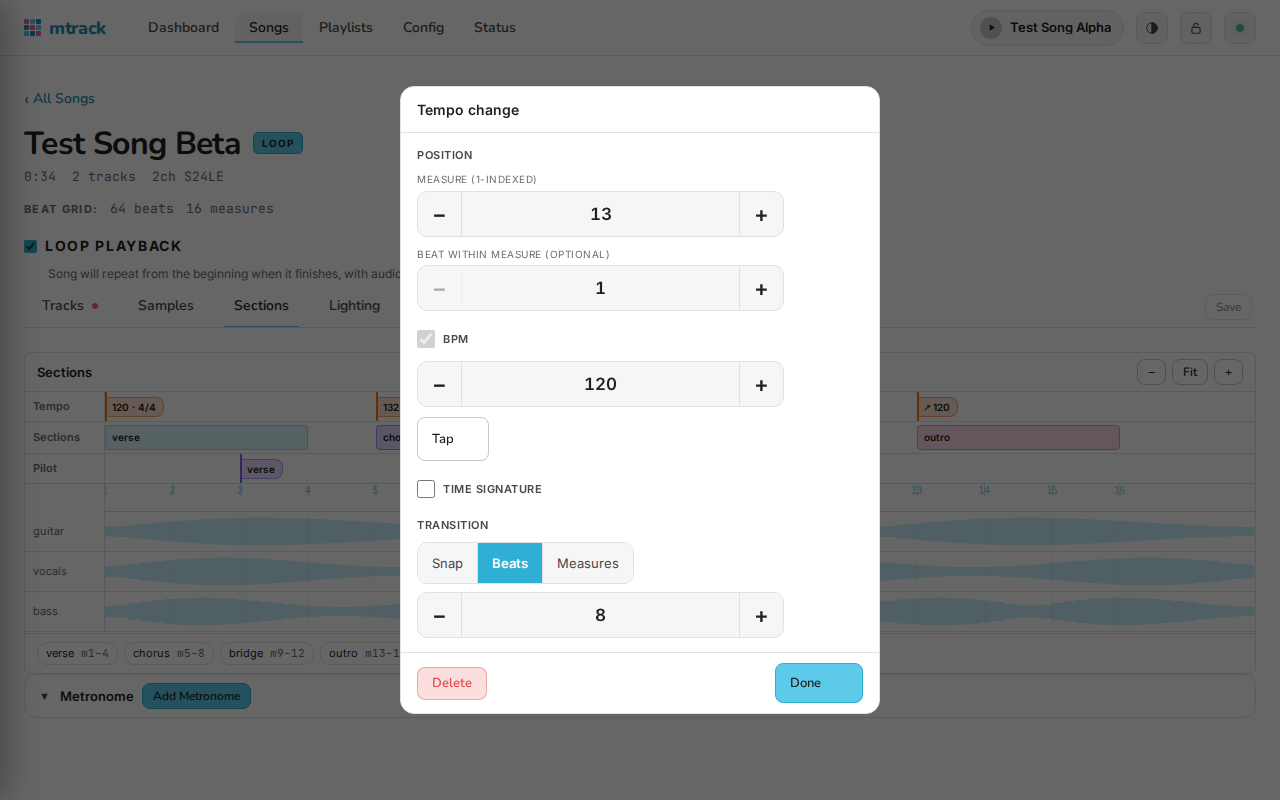
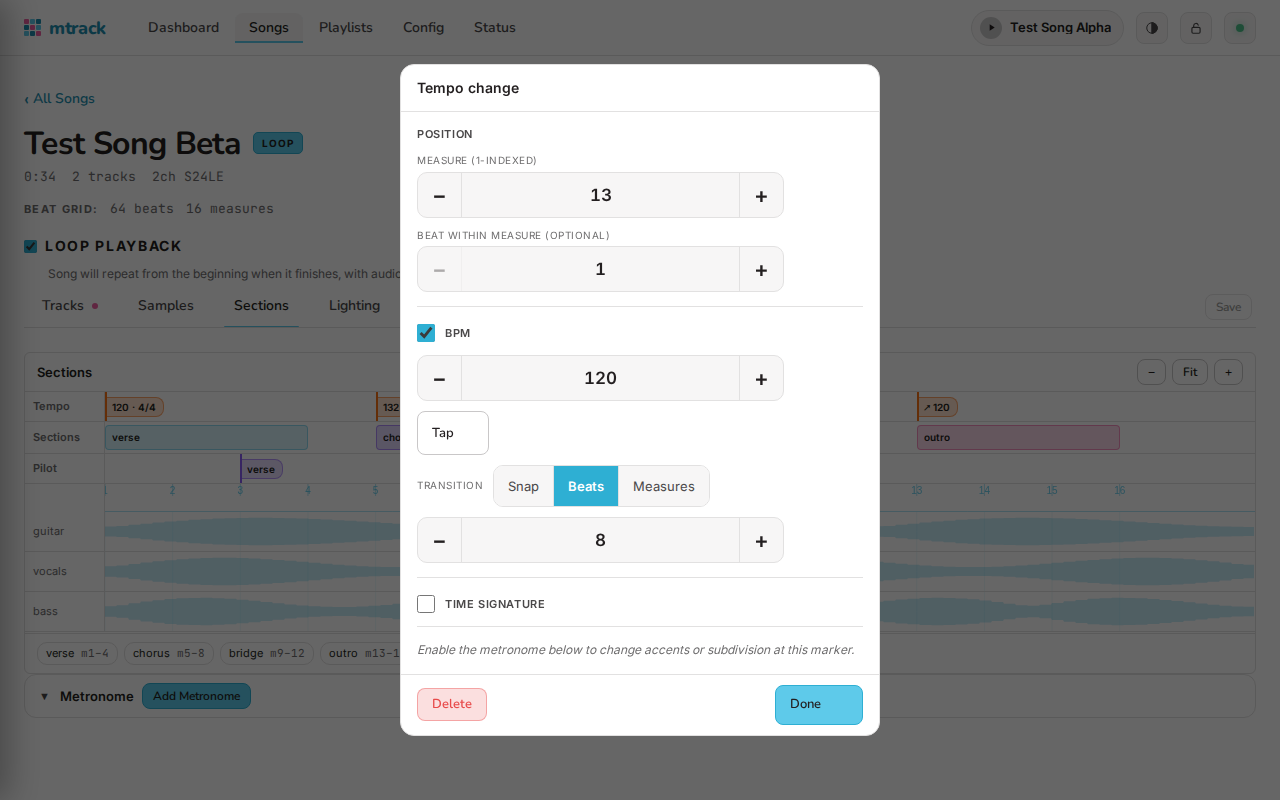
docs(webui): screenshots for the metronome feel layers
Four mock-captured shots for the accent/subdivision work, generated by
`npm run screenshots:mock` alongside the existing ones:

- the tempo lane with markers carrying accent glyphs and subdivisions,
- the base tempo marker with the accent pads and the note-icon
  subdivision picker (including the claves),
- a change marker that carries both a tempo and a feel change,
- the visual metronome, captured at 3x so the accent / half / silent dot
  styling is legible.

The section-timeline tempo dialog shot is refreshed too: change markers
now explain that the metronome has to be enabled before accents or
subdivision can change there.

diff --git a/src/webui/svelte/e2e/screenshots/capture.spec.ts b/src/webui/svelte/e2e/screenshots/capture.spec.ts
@@ -273,13 +273,13 @@ const STE_WAVEFORM = {
   ],
 };
 
-async function steInstallRoutes(page: Page) {
+async function steInstallRoutes(page: Page, yaml: string = STE_YAML) {
   // The song's raw YAML (the editor parses tempo/pilot/sections from it).
   await page.route(`**/api/songs/${STE_ENC}`, async (route) => {
     await route.fulfill({
       status: 200,
       contentType: "text/yaml",
-      body: STE_YAML,
+      body: yaml,
     });
   });
   // A fuller waveform so the lanes look like a real song.
@@ -301,8 +301,8 @@ async function steInstallRoutes(page: Page) {
   });
 }
 
-async function steOpen(page: Page) {
-  await steInstallRoutes(page);
+async function steOpen(page: Page, yaml: string = STE_YAML) {
+  await steInstallRoutes(page, yaml);
   await page.goto(`/#/songs/${STE_ENC}/sections`);
   await expect(page.locator(".section-timeline-editor")).toBeVisible();
   await expect(
@@ -337,5 +337,105 @@ test("section-timeline-pilot-dialog", async ({ page }) => {
   await page.waitForTimeout(200);
   await page.screenshot({
     path: path.join(DOCS_IMAGES, "section-timeline-pilot-dialog.png"),
+  });
+});
+
+// --- Metronome feel (accents, subdivisions, claves, feel changes) ---------
+// The same song with a `metronome:` block, so the tempo markers carry feel
+// and the dialog shows the accent pads / subdivision picker.
+
+const MET_YAML = `${STE_YAML}metronome:
+  track: click
+  accents: [3, 1, 2, 1]
+  subdivision: 2
+  changes:
+    - measure: 5
+      accents: [3, 0, 2, 0]
+    - measure: 9
+      subdivision: 3
+    - measure: 13
+      subdivision: son
+`;
+
+test("metronome-feel-timeline", async ({ page }) => {
+  await steOpen(page, MET_YAML);
+  await page.locator(".section-timeline-editor").screenshot({
+    path: path.join(DOCS_IMAGES, "metronome-feel-timeline.png"),
+  });
+});
+
+test("metronome-feel-dialog", async ({ page }) => {
+  // Taller than DESKTOP so the whole sheet fits — the subdivision picker
+  // runs to a second row with the claves.
+  await page.setViewportSize({ width: 1280, height: 1100 });
+  await steOpen(page, MET_YAML);
+  // The base tempo marker: song-level accents and subdivision.
+  await page.locator(".marker-lane").first().locator(".marker").first().click();
+  await expect(page.locator(".marker-dialog").first()).toBeVisible();
+  const dialog = page.locator(".marker-dialog").first();
+  await expect(dialog.locator(".accent-pads")).toBeVisible();
+  await expect(dialog.locator(".subdiv-options")).toBeVisible();
+  await page.waitForTimeout(200);
+  await page.screenshot({
+    path: path.join(DOCS_IMAGES, "metronome-feel-dialog.png"),
+  });
+});
+
+test("metronome-feel-change-dialog", async ({ page }) => {
+  await page.setViewportSize({ width: 1280, height: 1100 });
+  await steOpen(page, MET_YAML);
+  // The measure-13 marker: a tempo change (with an 8-beat transition) that
+  // also carries a feel change, so the per-aspect toggles are all visible.
+  await page.locator(".marker-lane").first().locator(".marker").nth(3).click();
+  const changeDialog = page.locator(".marker-dialog").first();
+  await expect(changeDialog).toBeVisible();
+  await expect(changeDialog.locator(".subdiv-options")).toBeVisible();
+  await page.waitForTimeout(200);
+  await page.screenshot({
+    path: path.join(DOCS_IMAGES, "metronome-feel-change-dialog.png"),
+  });
+});
+
+// The beat dots are ~8px; capture them at 3x so the accent / half / silent
+// styling is legible in the docs.
+test.describe(() => {
+  test.use({ deviceScaleFactor: 3 });
+
+  test("metronome-visual-click", async ({ page }) => {
+    const wsId = freshWsId("visual-click");
+    await page.goto(`/?wsId=${wsId}#/`);
+    await page.waitForTimeout(300);
+    // 4/4 at 120 BPM, one measure of dots: accent / silent / half / normal.
+    // Elapsed sits on beat 3, the half accent, so the flash shows its style.
+    await pushWs(page, wsId, {
+      ...DEFAULT_PLAYBACK,
+      is_playing: true,
+      elapsed_ms: 1000,
+      song_name: "Death is a Fine Companion",
+      song_duration_ms: 254000,
+      beat_grid: {
+        beats: [0, 0.5, 1.0, 1.5],
+        measure_starts: [0],
+        accent_levels: [3, 0, 2, 1],
+      },
+    });
+    await expect(page.locator(".beat-dot")).toHaveCount(4);
+    await expect(page.locator(".beat-dot").nth(2)).toHaveClass(
+      /beat-dot--half/,
+    );
+    await page.waitForTimeout(200);
+    // The meta row spans the whole card; clip to its left end, where the
+    // text and the dots are, so the docs image isn't mostly whitespace.
+    const box = await page.locator(".playback-card__meta").boundingBox();
+    if (!box) throw new Error("playback-card__meta has no bounding box");
+    await page.screenshot({
+      path: path.join(DOCS_IMAGES, "metronome-visual-click.png"),
+      clip: {
+        x: box.x - 10,
+        y: box.y - 10,
+        width: Math.min(box.width, 330),
+        height: box.height + 20,
+      },
+    });
   });
 });

diff --git a/docs/src/interfaces/web-ui.md b/docs/src/interfaces/web-ui.md
@@ -74,9 +74,11 @@ The dashboard is the landing page, providing an at-a-glance view of the player s
   to its start, and the small loop button next to it arms a section loop. An active loop shows
   the section name and a "Stop Loop" button. Beat/measure position is displayed when beat grid
   data is available, along with a visual metronome: one dot per beat of the current meter with
-  the active beat highlighted, and a pulse that flashes on every beat (accented on downbeats)
-  while playing. Pilot hints appear as markers on the progress bar, and upcoming hint labels
-  are shown a few seconds ahead of their position. Hints that follow each other closely
+  the active beat highlighted, and a pulse that flashes on every beat while playing. When the
+  song's metronome defines [accent levels](#metronome-feel), the dots and the pulse follow
+  them — accents emphasized, half accents in amber, silent beats hollow and unflashed —
+  otherwise the downbeat is accented. Pilot hints appear as markers on the progress bar, and
+  upcoming hint labels are shown a few seconds ahead of their position. Hints that follow each other closely
   (e.g. a "bridge" label and its "3..2..1" countdown) stay visible together, with only the
   live one highlighted — while its sample plays, or briefly at the anchor for label-only
   hints.
@@ -190,6 +192,34 @@ and pilot voice-hints can be authored against the same beat grid:
 ![Tempo change dialog](../images/section-timeline-tempo-dialog.png)
 
 ![Pilot hint dialog](../images/section-timeline-pilot-dialog.png)
+
+#### Metronome feel
+
+Tempo markers also carry the metronome's *feel* — the accent pattern and the subdivision in
+effect from that measure on. The base marker edits the song-level values; any later marker can
+change either one, on its own or alongside a tempo change. Each marker's chip labels what it
+changes, with the accent pattern drawn as a per-beat glyph and the subdivision as its note value
+(`1/8`, `1/8t`, `son`, …).
+
+![Tempo markers carrying accent patterns and subdivisions](../images/metronome-feel-timeline.png)
+
+The dialog's accents and subdivision sections are individually toggleable. **Accents** are tapped
+per beat, each tap cycling that beat one step — silent, normal, half accent, accent. **Subdivision**
+is picked from note values relative to the meter's beat (in 4/4: quarter, eighths, triplets,
+sixteenths, sextuplets), plus the son and rumba claves, which play their hit pattern over a
+two-measure cycle.
+
+![Base tempo marker with accent pads and the subdivision picker](../images/metronome-feel-dialog.png)
+
+A change marker shows only the aspects it overrides; here a tempo change with an 8-beat transition
+that also switches the feel to a son clave.
+
+![Tempo change marker carrying a feel change](../images/metronome-feel-change-dialog.png)
+
+While playing, the visual metronome on the [dashboard](#dashboard) mirrors the resolved
+levels, so what you see matches what the click plays.
+
+![Visual metronome showing accent, silent, half and normal beats](../images/metronome-visual-click.png)
 
 ### Lighting Tab
 
